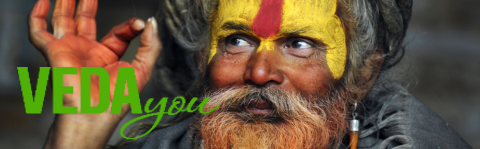
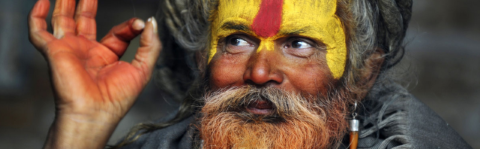
add media queries for 320px and 360px

Changed region(s): [[0.0312, 0.4295, 0.4688, 0.8859], [0.25, 0.8054, 0.3125, 0.9396]]

diff --git a/VedaYOU/VedaYOU/Content/MediaQueries(width-320).css b/VedaYOU/VedaYOU/Content/MediaQueries(width-320).css
@@ -1,14 +1,14 @@
-@media (min-width: 480px) and (max-width:630px)  {
+@media (min-width: 320px) and (max-width:360px)  {
   .image_container
   {
     width:100%;
-    height:149px;
+    height:99px;
     float: left;
-    background:url(/Content/Images/main_page_header_image_max_width_480.png);
-    background-size:100% 149px;
+    background:url(/Content/Images/main_page_header_image_max_width_320.png);
+    background-size:100% 99px;
     /*tricks for IE 8*/
-    filter: progid:DXImageTransform.Microsoft.AlphaImageLoader(src='/Content/Images/main_page_header_image2.png', sizingMethod='scale'); 
-    -ms-filter: "progid:DXImageTransform.Microsoft.AlphaImageLoader(src='/Content/Images/main_page_header_image2.png', sizingMethod='scale')";
+    filter: progid:DXImageTransform.Microsoft.AlphaImageLoader(src='/Content/Images/main_page_header_image_max_width_320.png', sizingMethod='scale'); 
+    -ms-filter: "progid:DXImageTransform.Microsoft.AlphaImageLoader(src='/Content/Images/main_page_header_image_max_width_320.png', sizingMethod='scale')";
 
   }
   .header_container
@@ -31,14 +31,19 @@
   margin-top: 17px;
 }
 .about_me_text_section{
-  margin-top: 20px;
+ margin-top: -50px;
  width: 100%;
  height: 250px;
 }
 
 .about_me_text text{
- font-size: 15px;
+ font-size: 14px;
 }
+
+.about_me_text text{
+ margin-bottom: -50px;
+}
+
 
 .about_me_image_section{
  width: 100%;
@@ -47,7 +52,7 @@
 }
 
 .about_me_image_section img{
-  height: 80.21%;
+  height: 60.21%;
   margin-top: 5%;
   margin-left: 16%;
   margin-right:0px;
@@ -58,10 +63,12 @@
 .services_map_birth {
 
   font-size: 14px;
+  margin-top: 35px;
+
 }
 .services_simple_text {
 
-  font-size: 14px;
+  font-size: 13px;
 }
 
 .content_divider_bottom {
@@ -69,13 +76,16 @@
   margin-bottom: 20px;
 }
 .about_me_container{
- height: 580px
+ height: 575px
 }
 
 .services_simple_text{
- height: 330px;
+ height: 520px;
 }
 
+div.article_header_text text {
+    font-size: 9px;
+}
 .about_me_text
 {
   font-size: 14px;
@@ -86,15 +96,15 @@
 
 .services_container {
 
-  height: 3160px;
+  height: 4250px;
 }
 
 .services_map_birth {
-  height: 1320px;
+  height: 1850px;
 }
 
 .services_muhurta {
-  height: 170px;
+  height: 230px;
   font-size: 14px;
 }
 
@@ -102,12 +112,12 @@
   padding-bottom: 0px;
 }
 .services_capability {
-  height: 150px;
+  height: 200px;
   font-size: 14px;
 }
 
 .services_astrology_lessons {
-  height: 520px;
+  height: 580px;
   font-size: 14px;
 }
 
@@ -167,12 +177,12 @@
 
 .order_services_container {
   width: 100%;
-  height: 1150px;
+  height: 1400px;
 }
 
 .contacts {
   width: 100%;
-  height: 600px;
+  height: 660px;
 }
 
 
@@ -201,8 +211,8 @@
   height: 55px;
 }
 .footer_container p {
-  padding-left: 19%;
-  font-size: 15px;
+  padding-left: 11%;
+  font-size: 13px;
 
 }
 .contacts_table_container table td{

diff --git a/VedaYOU/VedaYOU/Content/MediaQueries(width-360).css b/VedaYOU/VedaYOU/Content/MediaQueries(width-360).css
@@ -1,14 +1,14 @@
-@media (min-width: 480px) and (max-width:630px)  {
+@media (min-width: 360px) and (max-width:480px)  {
   .image_container
   {
     width:100%;
-    height:149px;
+    height:99px;
     float: left;
-    background:url(/Content/Images/main_page_header_image_max_width_480.png);
-    background-size:100% 149px;
+    background:url(/Content/Images/main_page_header_image_max_width_320.png);
+    background-size:100% 99px;
     /*tricks for IE 8*/
-    filter: progid:DXImageTransform.Microsoft.AlphaImageLoader(src='/Content/Images/main_page_header_image2.png', sizingMethod='scale'); 
-    -ms-filter: "progid:DXImageTransform.Microsoft.AlphaImageLoader(src='/Content/Images/main_page_header_image2.png', sizingMethod='scale')";
+    filter: progid:DXImageTransform.Microsoft.AlphaImageLoader(src='/Content/Images/main_page_header_image_max_width_320.png', sizingMethod='scale'); 
+    -ms-filter: "progid:DXImageTransform.Microsoft.AlphaImageLoader(src='/Content/Images/main_page_header_image_max_width_320.png', sizingMethod='scale')";
 
   }
   .header_container
@@ -31,7 +31,7 @@
   margin-top: 17px;
 }
 .about_me_text_section{
-  margin-top: 20px;
+ margin-top: -50px;
  width: 100%;
  height: 250px;
 }
@@ -40,6 +40,11 @@
  font-size: 15px;
 }
 
+.about_me_text text{
+ margin-bottom: -50px;
+}
+
+
 .about_me_image_section{
  width: 100%;
  margin: 0 0 0 0;
@@ -47,7 +52,7 @@
 }
 
 .about_me_image_section img{
-  height: 80.21%;
+  height: 60.21%;
   margin-top: 5%;
   margin-left: 16%;
   margin-right:0px;
@@ -58,6 +63,8 @@
 .services_map_birth {
 
   font-size: 14px;
+  margin-top: 35px;
+
 }
 .services_simple_text {
 
@@ -69,11 +76,11 @@
   margin-bottom: 20px;
 }
 .about_me_container{
- height: 580px
+ height: 600px
 }
 
 .services_simple_text{
- height: 330px;
+ height: 480px;
 }
 
 .about_me_text
@@ -86,15 +93,15 @@
 
 .services_container {
 
-  height: 3160px;
+  height: 3780px;
 }
 
 .services_map_birth {
-  height: 1320px;
+  height: 1600px;
 }
 
 .services_muhurta {
-  height: 170px;
+  height: 230px;
   font-size: 14px;
 }
 
@@ -102,7 +109,7 @@
   padding-bottom: 0px;
 }
 .services_capability {
-  height: 150px;
+  height: 170px;
   font-size: 14px;
 }
 
@@ -167,12 +174,12 @@
 
 .order_services_container {
   width: 100%;
-  height: 1150px;
+  height: 1320px;
 }
 
 .contacts {
   width: 100%;
-  height: 600px;
+  height: 630px;
 }
 
 
@@ -202,7 +209,7 @@
 }
 .footer_container p {
   padding-left: 19%;
-  font-size: 15px;
+  font-size: 13px;
 
 }
 .contacts_table_container table td{
